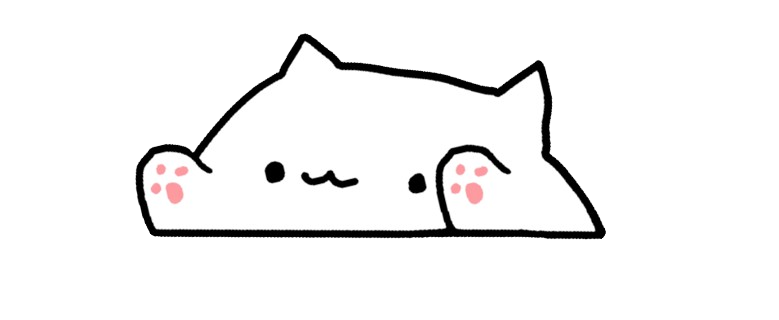
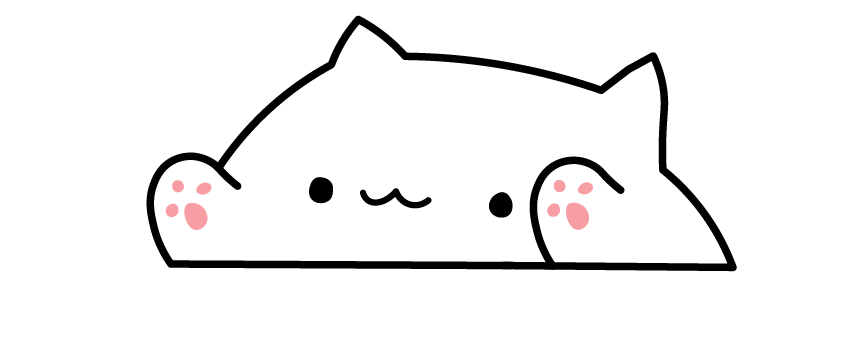
feat: improved bongocat png files
- Add new png files, custom drawn by @Shreyabardia
- Bump version to 1.2.3
- Docs update & some minor improvements

Changed region(s): [[0.154, 0.0312, 0.8626, 0.75]]

diff --git a/src/core/main.c b/src/core/main.c
@@ -354,11 +354,11 @@ static void cli_show_help(const char *program_name) {
     printf("Bongo Cat Wayland Overlay\n");
     printf("Usage: %s [options]\n", program_name);
     printf("Options:\n");
-    printf("  -h, --help         Show this help message\n");
-    printf("  -v, --version      Show version information\n");
-    printf("  -c, --config       Specify config file (default: bongocat.conf)\n");
-    printf("  -w, --watch-config Watch config file for changes and reload automatically\n");
-    printf("  --toggle           Toggle bongocat on/off (start if not running, stop if running)\n");
+    printf("  -h, --help            Show this help message\n");
+    printf("  -v, --version         Show version information\n");
+    printf("  -c, --config          Specify config file (default: bongocat.conf)\n");
+    printf("  -w, --watch-config    Watch config file for changes and reload automatically\n");
+    printf("  -t, --toggle          Toggle bongocat on/off (start if not running, stop if running)\n");
     printf("\nConfiguration is loaded from bongocat.conf in the current directory.\n");
 }
 
@@ -392,7 +392,7 @@ static int cli_parse_arguments(int argc, char *argv[], cli_args_t *args) {
             }
         } else if (strcmp(argv[i], "--watch-config") == 0 || strcmp(argv[i], "-w") == 0) {
             args->watch_config = true;
-        } else if (strcmp(argv[i], "--toggle") == 0) {
+        } else if (strcmp(argv[i], "--toggle") == 0 || strcmp(argv[i], "-t") == 0) {
             args->toggle_mode = true;
         } else {
             bongocat_log_warning("Unknown argument: %s", argv[i]);

diff --git a/src/config/config.c b/src/config/config.c
@@ -99,7 +99,6 @@ static bongocat_error_t config_validate(config_t *config) {
     
     // Normalize boolean values
     config->enable_debug = config->enable_debug ? 1 : 0;
-    config->hide_on_fullscreen = config->hide_on_fullscreen ? 1 : 0;
     
     return BONGOCAT_SUCCESS;
 }
@@ -187,8 +186,6 @@ static bongocat_error_t config_parse_integer_key(config_t *config, const char *k
         config->overlay_opacity = int_value;
     } else if (strcmp(key, "enable_debug") == 0) {
         config->enable_debug = int_value;
-    } else if (strcmp(key, "hide_on_fullscreen") == 0) {
-        config->hide_on_fullscreen = int_value;
     } else {
         return BONGOCAT_ERROR_INVALID_PARAM; // Unknown key
     }
@@ -327,7 +324,6 @@ static void config_set_defaults(config_t *config) {
         .fps = 60,
         .overlay_opacity = 150,
         .enable_debug = 1,
-        .hide_on_fullscreen = 1,
         .layer = LAYER_TOP,  // Default to TOP for broader compatibility
         .overlay_position = POSITION_TOP
     };
@@ -358,7 +354,6 @@ static void config_log_summary(const config_t *config) {
     bongocat_log_debug("  FPS: %d, Opacity: %d", config->fps, config->overlay_opacity);
     bongocat_log_debug("  Position: %s", config->overlay_position == POSITION_TOP ? "top" : "bottom");
     bongocat_log_debug("  Layer: %s", config->layer == LAYER_TOP ? "top" : "overlay");
-    bongocat_log_debug("  Hide on fullscreen: %s", config->hide_on_fullscreen ? "enabled" : "disabled");
 }
 
 // =============================================================================

diff --git a/src/platform/wayland.c b/src/platform/wayland.c
@@ -710,15 +710,6 @@ void wayland_cleanup(void) {
     bongocat_log_debug("Wayland cleanup complete");
 }
 
-// Legacy API compatibility (deprecated)
-void wayland_switch_to_overlay_layer(void) {
-    bongocat_log_info("Layer switching disabled - using opacity-based hiding");
-}
-
-void wayland_switch_to_top_layer(void) {
-    bongocat_log_info("Layer switching disabled - using opacity-based hiding");
-}
-
 const char* wayland_get_current_layer_name(void) {
     return "OVERLAY";
 }

diff --git a/include/platform/wayland.h b/include/platform/wayland.h
@@ -29,8 +29,6 @@ void wayland_update_config(config_t *config);
 void draw_bar(void);
 int create_shm(int size);
 int wayland_get_screen_width(void);
-void wayland_switch_to_overlay_layer(void);
-void wayland_switch_to_top_layer(void);
 const char* wayland_get_current_layer_name(void);
 
 #endif // WAYLAND_H

diff --git a/include/config/config.h b/include/config/config.h
@@ -31,7 +31,6 @@ typedef struct {
     int fps;
     int overlay_opacity;
     int enable_debug;
-    int hide_on_fullscreen;
     layer_type_t layer;
     overlay_position_t overlay_position;
 } config_t;

diff --git a/include/core/bongocat.h b/include/core/bongocat.h
@@ -23,7 +23,7 @@
 #include "../lib/stb_image.h"
 
 // Version
-#define BONGOCAT_VERSION "1.2.2"
+#define BONGOCAT_VERSION "1.2.3"
 
 // Common constants
 #define NUM_FRAMES 3

diff --git a/README.md b/README.md
@@ -1,7 +1,7 @@
 # Bongo Cat Wayland Overlay
 
 [![License: MIT](https://img.shields.io/badge/License-MIT-green.svg)](https://opensource.org/licenses/MIT)
-[![Version](https://img.shields.io/badge/version-1.2.2-blue.svg)](https://github.com/saatvik333/wayland-bongocat/releases)
+[![Version](https://img.shields.io/badge/version-1.2.3-blue.svg)](https://github.com/saatvik333/wayland-bongocat/releases)
 
 A delightful Wayland overlay that displays an animated bongo cat reacting to your keyboard input! Perfect for streamers, content creators, or anyone who wants to add some fun to their desktop.
 
@@ -13,10 +13,11 @@ A delightful Wayland overlay that displays an animated bongo cat reacting to you
 - **🔥 Hot-Reload Configuration** - Modify settings without restarting (v1.2.0)
 - **🔄 Dynamic Device Detection** - Automatically detects Bluetooth/USB keyboards (v1.2.0)
 - **⚡ Performance Optimized** - Adaptive monitoring and batch processing (v1.2.0)
-- **🖥 Screen Detection** - Automatic screen detection for all sizes and orientations (1.2.2)
+- **🖥 Screen Detection** - Automatic screen detection for all sizes and orientations (v1.2.2)
+- **🎮 Smart Fullscreen Detection** - Automatically hides during fullscreen applications (v1.2.3)
 - **💾 Lightweight** - Minimal resource usage (~7MB RAM)
 - **🎛 Multi-device Support** - Monitor multiple keyboards simultaneously
-- **🎨 Embedded Assets** - No external dependencies
+- **🎨 Custom Artwork** - Custom-drawn bongocat image files by [@Shreyabardia](https://github.com/Shreyabardia)
 - **🏗 Cross-platform** - Works on x86_64 and ARM64
 
 ## 🚀 Installation
@@ -243,7 +244,7 @@ The `bongocat-find-devices` tool provides professional input device analysis wit
 $ bongocat-find-devices
 
 ╔══════════════════════════════════════════════════════════════════╗
-║ Wayland Bongo Cat - Input Device Discovery v1.2.0                ║
+║ Wayland Bongo Cat - Input Device Discovery v1.2.3                ║
 ╚══════════════════════════════════════════════════════════════════╝
 
 [SCAN] Scanning for input devices...
@@ -308,20 +309,21 @@ bongocat-find-devices --help
 - **Storage:** ~0.4MB executable size
 - **Compositor:** Wayland with layer shell protocol support
 
-### Performance Metrics (v1.2.2)
+### Performance Metrics (v1.2.3)
 
 - **Input Latency:** <1ms with batch processing
 - **CPU Usage:** <1% on modern systems
 - **Device Monitoring:** Adaptive 5-30 second intervals
 - **Memory:** Optimized with leak detection
+- **Fullscreen Detection:** Intelligent hiding with minimal overhead
 
 ### Tested Compositors
 
 - ✅ **Hyprland** - Full support
 - ✅ **Sway** - Full support
 - ✅ **Wayfire** - Compatible
-- ⚠ **KDE Wayland** - Limited layer shell support
-- ❌ **GNOME Wayland** - No layer shell support
+- ✅ **KDE Wayland** - Compatiable
+- ❌ **GNOME Wayland** - Support Unknown
 
 ## 🐛 Troubleshooting
 
@@ -411,9 +413,11 @@ wayland-bongocat/
 └── nix/               # NixOS integration
 ```
 
-### Key Features (v1.2.2)
+### Key Features (v1.2.3)
 
 - **Screen Detection** -> Automatic screen width/orientation detection
+- **Fullscreen Detection** -> Smart hiding during fullscreen applications
+- **Enhanced Artwork** -> Custom-drawn animations with improved visual quality
 
 ## 🤝 Contributing
 
@@ -443,8 +447,9 @@ MIT License - see [LICENSE](LICENSE) file for details.
 Built with ❤ for the Wayland community. Special thanks to:
 
 - Redditor: [u/akonzu](https://www.reddit.com/user/akonzu/) for the inspiration
+- [@Shreyabardia](https://github.com/Shreyabardia) for the beautiful custom-drawn bongo cat artwork
 - All the contributors and users
 
 ---
 
-**₍^. .^₎ Wayland Bongo Cat Overlay v1.2.2** - Making desktops more delightful, one keystroke at a time!
+**₍^. .^₎ Wayland Bongo Cat Overlay v1.2.3** - Making desktops more delightful, one keystroke at a time!

diff --git a/CHANGELOG.md b/CHANGELOG.md
@@ -1,0 +1,43 @@
+# Changelog
+
+All notable changes to this project will be documented in this file.
+
+## [1.2.3] - 2025-08-02
+
+### Added
+- **Smart Fullscreen Detection** - Automatically hides overlay during fullscreen applications for a cleaner experience
+- **Enhanced Artwork** - Custom-drawn bongocat image files by [@Shreyabardia](https://github.com/Shreyabardia)
+- **Modular Architecture** - Reorganized codebase into logical modules for better maintainability
+
+### Improved
+- **Signal Handling** - Fixed duplicate log messages during shutdown
+- **Code Organization** - Separated concerns into core, graphics, platform, config, and utils modules
+- **Build System** - Updated to support new modular structure
+
+## [1.2.2] - Previous Release
+
+### Added
+- Automatic screen detection for all sizes and orientations
+- Enhanced performance optimizations
+
+## [1.2.1] - Previous Release
+
+### Added
+- Configuration hot-reload system
+- Dynamic device detection
+
+## [1.2.0] - Previous Release
+
+### Added
+- Hot-reload configuration support
+- Dynamic Bluetooth/USB keyboard detection
+- Performance optimizations with adaptive monitoring
+- Batch processing for improved efficiency
+
+## [1.1.x] - Previous Releases
+
+### Added
+- Multi-device support
+- Embedded assets
+- Cross-platform compatibility (x86_64 and ARM64)
+- Basic configuration

diff --git a/nix/NIXOS.md b/nix/NIXOS.md
@@ -189,8 +189,8 @@ Ensure your compositor supports the layer shell protocol:
 - ✅ **Hyprland** - Full support
 - ✅ **Sway** - Full support
 - ✅ **Wayfire** - Compatible
-- ⚠ **KDE Wayland** - Limited support
-- ❌ **GNOME Wayland** - Not supported
+- ✅ **KDE Wayland** - Compatiable
+- ❌ **GNOME Wayland** - Support Unknown
 
 ## Advanced Usage
 ### Custom Package
